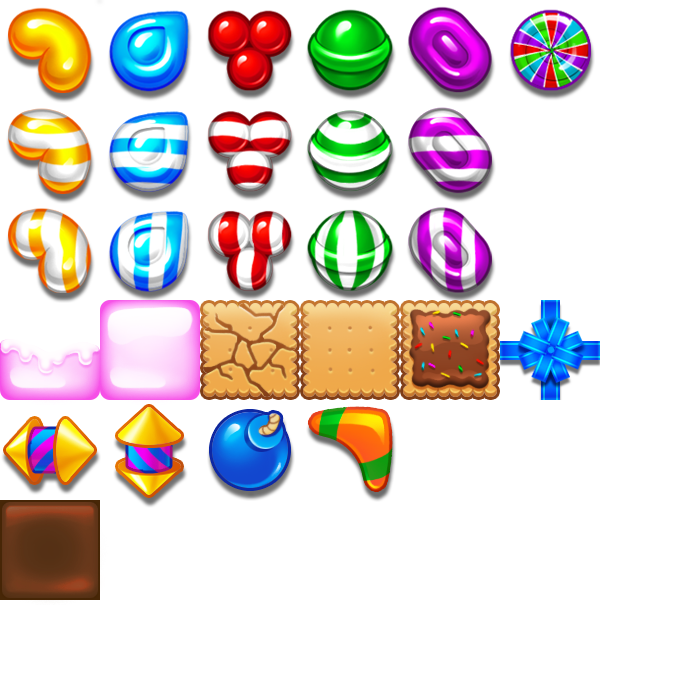
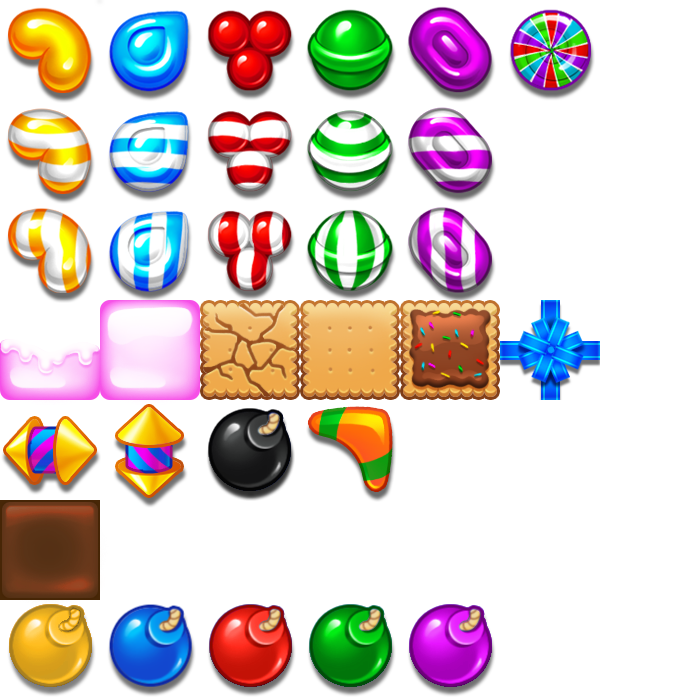
Colored bombs added as sprites

Changed region(s): [[0.0, 0.84, 0.72, 1.0], [0.3, 0.57, 0.42, 0.72]]

diff --git a/Match3Game.cs b/Match3Game.cs
@@ -9,6 +9,7 @@ namespace match_3
         private GraphicsDeviceManager graphics;
         private SpriteBatch spriteBatch;
         private Texture2D texture;
+        private Texture2D background;
         private Texture2D textureExplotion;
         private MouseState currentMouseState;
         private SpriteFont font;
@@ -36,6 +37,7 @@ namespace match_3
         protected override void LoadContent()
         {
             spriteBatch = new SpriteBatch(GraphicsDevice);
+            background = Content.Load<Texture2D>("background_blur");
             texture = Content.Load<Texture2D>("assets_candy");
             textureExplotion = Content.Load<Texture2D>("explotion");
             font = Content.Load<SpriteFont>("score"); 
@@ -70,6 +72,8 @@ namespace match_3
         {
             GraphicsDevice.Clear(Color.Aquamarine);
             spriteBatch.Begin();
+
+            spriteBatch.Draw(background, new Vector2(0, 0) , new Rectangle(0, 0, 1000, 1000), Color.White);
 
             board.Draw(gameTime, spriteBatch);
             if (board.GameMode == Mode.Game)

diff --git a/Board.cs b/Board.cs
@@ -40,6 +40,8 @@ namespace match_3
                 bonus = 100;
             if (piece.ver)
                 bonus = 200;
+            if (piece.coloredBomb)
+                bonus = 600;
             switch(piece.type)
             {
                 case Type.Yellow:
@@ -55,7 +57,7 @@ namespace match_3
                 case Type.Bomb:
                     return new Rectangle(new Point(200, 400), pointSize);
                 default:
-                    return new Rectangle(new Point(600, 600), pointSize);
+                    return new Rectangle(new Point(300, 300), pointSize);
             }
         }
 
